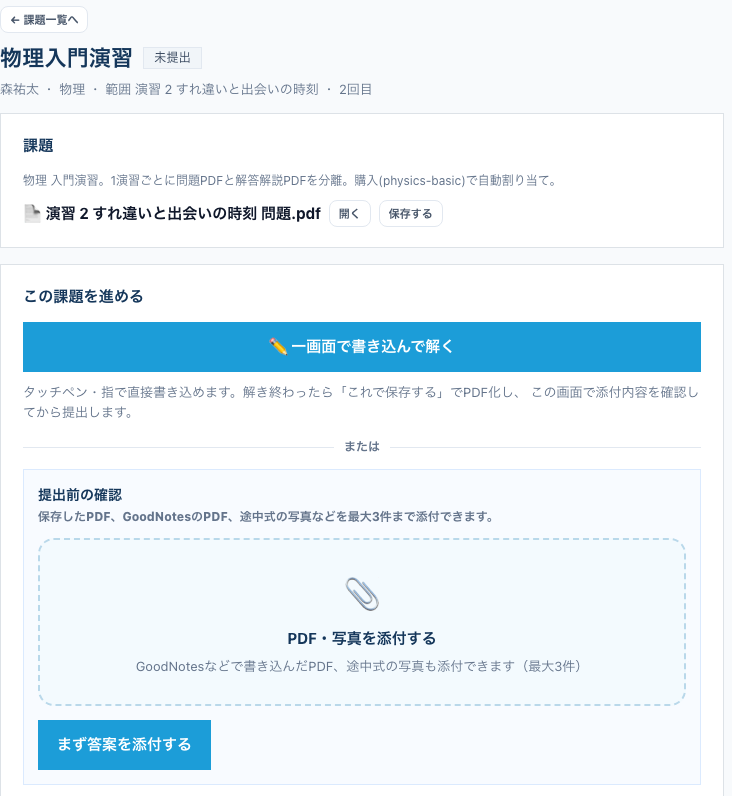
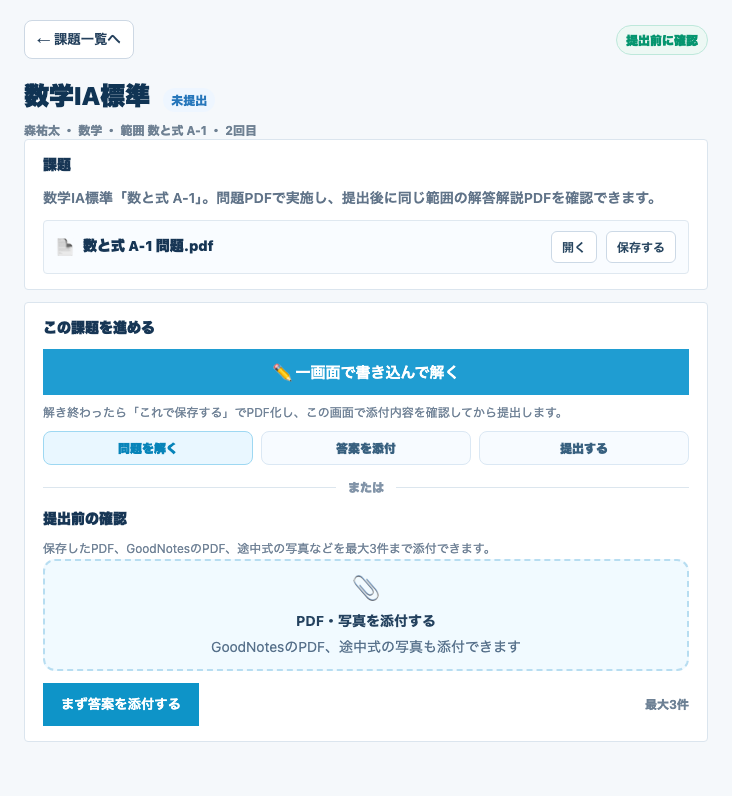
数学

diff --git a/components/app-screens.tsx b/components/app-screens.tsx
@@ -239,19 +239,34 @@ function ActionCard({
   count: string;
   tone: "blue" | "green" | "red";
 }) {
-  const styles = {
-    blue: "border-l-[#25a8df] bg-[#f2faff] text-[#0284c7]",
-    green: "border-l-[#10a37f] bg-[#effbf6] text-[#059669]",
-    red: "border-l-[#c81046] bg-[#fff1f4] text-[#c81046]",
+  const styles: Record<"blue" | "green" | "red", { card: string; action: string }> = {
+    blue: {
+      card: "border-l-[#25a8df] bg-[#f2faff] text-[#0284c7]",
+      action: "bg-[#25a8df] text-white",
+    },
+    green: {
+      card: "border-l-[#10a37f] bg-[#effbf6] text-[#059669]",
+      action: "bg-[#10a37f] text-white",
+    },
+    red: {
+      card: "border-l-[#c81046] bg-[#fff1f4] text-[#c81046]",
+      action: "bg-[#c81046] text-white",
+    },
   };
+  const actionLabel = tone === "green" ? "採点" : tone === "red" ? "確認" : "取組";
+
   return (
-    <div className={`relative overflow-hidden border border-[#d8e1eb] border-l-[3px] p-3 ${styles[tone]}`}>
-      <span aria-hidden="true" className="absolute -right-5 -top-4 h-14 w-14 rotate-45 bg-white/55" />
-      <p className="text-[0.72rem] font-extrabold text-[#123657]">{title}</p>
-      <p className="mt-1 text-[0.48rem] font-bold text-[#607289]">{label}</p>
-      <div className="mt-3 flex items-center justify-between">
-        <span className="grid h-7 w-7 place-items-center border border-current bg-white/70 text-[0.86rem] font-black">{count}</span>
-        <MiniButton tone={tone === "red" ? "red" : "blue"}>{tone === "green" ? "採点" : tone === "red" ? "確認" : "取組"}</MiniButton>
+    <div className={`relative min-w-0 overflow-hidden rounded-[6px] border border-[#d8e1eb] border-l-[3px] px-2 py-2.5 ${styles[tone].card}`}>
+      <span aria-hidden="true" className="absolute -right-4 -top-5 h-12 w-12 rotate-45 bg-white/55" />
+      <p className="relative truncate whitespace-nowrap text-[0.64rem] font-extrabold leading-tight text-[#123657]">{title}</p>
+      <p className="relative mt-0.5 truncate text-[0.43rem] font-bold leading-tight text-[#607289]">{label}</p>
+      <div className="relative mt-2 grid grid-cols-[1.45rem_1fr] items-stretch gap-1.5">
+        <span className="grid h-6 min-w-0 place-items-center rounded-[4px] border border-current bg-white/78 text-[0.78rem] font-black leading-none">
+          {count}
+        </span>
+        <span className={`grid min-h-6 min-w-0 place-items-center rounded-[4px] px-1 text-[0.45rem] font-extrabold leading-none ${styles[tone].action}`}>
+          {actionLabel}
+        </span>
       </div>
     </div>
   );
@@ -264,7 +279,7 @@ function ScreenHome() {
         <span className="inline-flex border border-white/35 px-2 py-1 text-[0.4rem] font-black tracking-[0.18em] text-white/90">
           LEARNING DASHBOARD
         </span>
-        <p className="mt-3 text-[1rem] font-black leading-tight">こんにちは、山田太郎 さん</p>
+        <p className="mt-3 whitespace-nowrap text-[0.92rem] font-black leading-tight">こんにちは、山田太郎さん</p>
         <p className="mt-2 text-[0.5rem] leading-relaxed text-white/82">復習で定着、演習で得点。着実に積み上げよう。</p>
         <div className="mt-3 grid grid-cols-3 gap-1.5">
           {["1日連続", "合格 2", "はじめのいっぽ"].map((label) => (
@@ -283,7 +298,7 @@ function ScreenHome() {
         </span>
       </div>
 
-      <div className="mt-3 grid grid-cols-3 gap-2">
+      <div className="mt-3 grid grid-cols-3 gap-1.5">
         <ActionCard title="課題" label="未提出" count="2" tone="blue" />
         <ActionCard title="自己採点" label="即確認" count="2" tone="green" />
         <ActionCard title="返却" label="添削" count="0" tone="red" />
@@ -321,9 +336,9 @@ function ScreenSubmit() {
         ← 課題一覧へ
       </button>
       <p className="mt-3 text-[0.94rem] font-extrabold leading-tight tracking-[-0.02em] text-[#123657]">
-        物理入門演習 <StatusPill>未提出</StatusPill>
+        数学IA標準 <StatusPill>未提出</StatusPill>
       </p>
-      <p className="mt-1.5 text-[0.5rem] leading-relaxed text-[#607289]">山田太郎 ・ 物理 ・ 範囲 演習2 すれ違いと出会いの時刻 ・ 2回目</p>
+      <p className="mt-1.5 text-[0.5rem] leading-relaxed text-[#607289]">山田太郎 ・ 数学 ・ 範囲 数と式 A-1 ・ 2回目</p>
 
       <section className="mt-3 border border-[#d8e1eb] bg-white p-3">
         <p className="text-[0.68rem] font-extrabold text-[#123657]">課題</p>
@@ -332,7 +347,7 @@ function ScreenSubmit() {
         </p>
         <div className="mt-3 flex items-center gap-2">
           <span className="text-[0.9rem]" aria-hidden="true">📄</span>
-          <span className="min-w-0 flex-1 truncate text-[0.54rem] font-extrabold text-[#0f172a]">演習2 問題.pdf</span>
+          <span className="min-w-0 flex-1 truncate text-[0.54rem] font-extrabold text-[#0f172a]">数と式 A-1 問題.pdf</span>
           <MiniButton tone="white">開く</MiniButton>
           <MiniButton tone="white">保存</MiniButton>
         </div>

diff --git a/app/page.tsx b/app/page.tsx
@@ -224,7 +224,7 @@ const sampleScreens = [
     height: 835,
     overlays: [
       {
-        text: "こんにちは、山田太郎 さん",
+        text: "こんにちは、山田太郎さん",
         className:
           "left-[4.9%] top-[8.6%] h-[5.8%] w-[49%] bg-[#1c2d5c] px-[0.8%] text-[clamp(0.92rem,3.8vw,1.8rem)] font-black leading-none text-white sm:text-[clamp(1.05rem,2vw,1.7rem)]",
       },
@@ -232,11 +232,11 @@ const sampleScreens = [
   },
   {
     title: "教材PDFの一部",
-    body: "問題PDFはアプリ内で表示され、タブレットで縦スクロールしながら確認できます。",
-    bullets: ["図・数式つきPDFも閲覧", "ペンで書き込んで保存"],
+    body: "数学IA標準の問題PDFを、アプリ内やタブレットで縦スクロールしながら確認できます。",
+    bullets: ["数式つきPDFも閲覧", "ペンで書き込んで保存"],
     src: "/samples/material-pdf-sample.png",
-    width: 1180,
-    height: 980,
+    width: 1075,
+    height: 1518,
   },
   {
     title: "提出画面",
@@ -255,11 +255,11 @@ const sampleScreens = [
   },
   {
     title: "解答解説PDFの見え方",
-    body: "提出済み答案と解答解説を左右に並べ、先生の返却を待たずに自己採点できます。",
-    bullets: ["答案と解答を同時に見比べ", "解答PDFを表示"],
+    body: "提出後に同じ範囲の解答解説PDFを開き、考え方と途中式を見ながら自己採点できます。",
+    bullets: ["数学IA標準 A-1", "考え方・途中式つき"],
     src: "/samples/answer-key-sample.png",
-    width: 586,
-    height: 797,
+    width: 1075,
+    height: 1518,
   },
   {
     title: "返却画面",

diff --git a/components/post-purchase-flow.tsx b/components/post-purchase-flow.tsx
@@ -50,7 +50,7 @@ const steps: Array<{
       </>
     ),
     bullets: [
-      "例：physics の購入で、物理標準演習が自動割り当て。",
+      "例：math-1a の購入で、数学IA標準が自動割り当て。",
       "「次：演習1」のように、今どこを解くかが見えます。",
       "合格数・採点待ち・再提出ありも、教材別に追えます。",
     ],
@@ -258,8 +258,8 @@ function SubmitVisual() {
       <AppHeader active="課題" />
       <main className="bg-[#f3f6f9] px-2.5 py-2.5">
         <button className="border border-[#d8e1eb] bg-white px-2 py-1 text-[0.38rem] font-bold text-[#40536b]">← 課題一覧へ</button>
-        <p className="mt-2 text-[0.58rem] font-extrabold text-[#123657]">物理標準演習 <span className="border border-[#d8e1eb] px-1 text-[0.34rem] text-[#607289]">未提出</span></p>
-        <p className="mt-1 text-[0.34rem] text-[#607289]">山田太郎・物理・範囲 波と式 B-1・4回目</p>
+        <p className="mt-2 text-[0.58rem] font-extrabold text-[#123657]">数学IA標準 <span className="border border-[#d8e1eb] px-1 text-[0.34rem] text-[#607289]">未提出</span></p>
+        <p className="mt-1 text-[0.34rem] text-[#607289]">山田太郎・数学・範囲 数と式 A-1・2回目</p>
         <section className="mt-2 border border-[#d8e1eb] bg-white p-2.5">
           <p className="text-[0.48rem] font-extrabold text-[#123657]">課題</p>
           <div className="mt-2 grid grid-cols-[1fr_auto_auto] gap-1 border border-[#e4ebf2] bg-[#f8fbfd] p-2">

diff --git a/components/nobit-media.tsx b/components/nobit-media.tsx
@@ -156,7 +156,7 @@ export function AppMock({ className = "" }: { className?: string }) {
             {/* ヘッダーカード */}
             <div className="relative overflow-hidden rounded-[16px] bg-[linear-gradient(120deg,#1d4ed8_0%,#0d9488_100%)] p-3.5 text-white">
               <div className="pr-12">
-                <p className="text-[0.82rem] font-extrabold leading-tight">こんにちは、山田太郎 さん</p>
+                <p className="text-[0.82rem] font-extrabold leading-tight">こんにちは、山田太郎さん</p>
                 <p className="mt-1 text-[0.6rem] leading-snug text-white/85">未提出の課題が2件あります。</p>
               </div>
               <img
